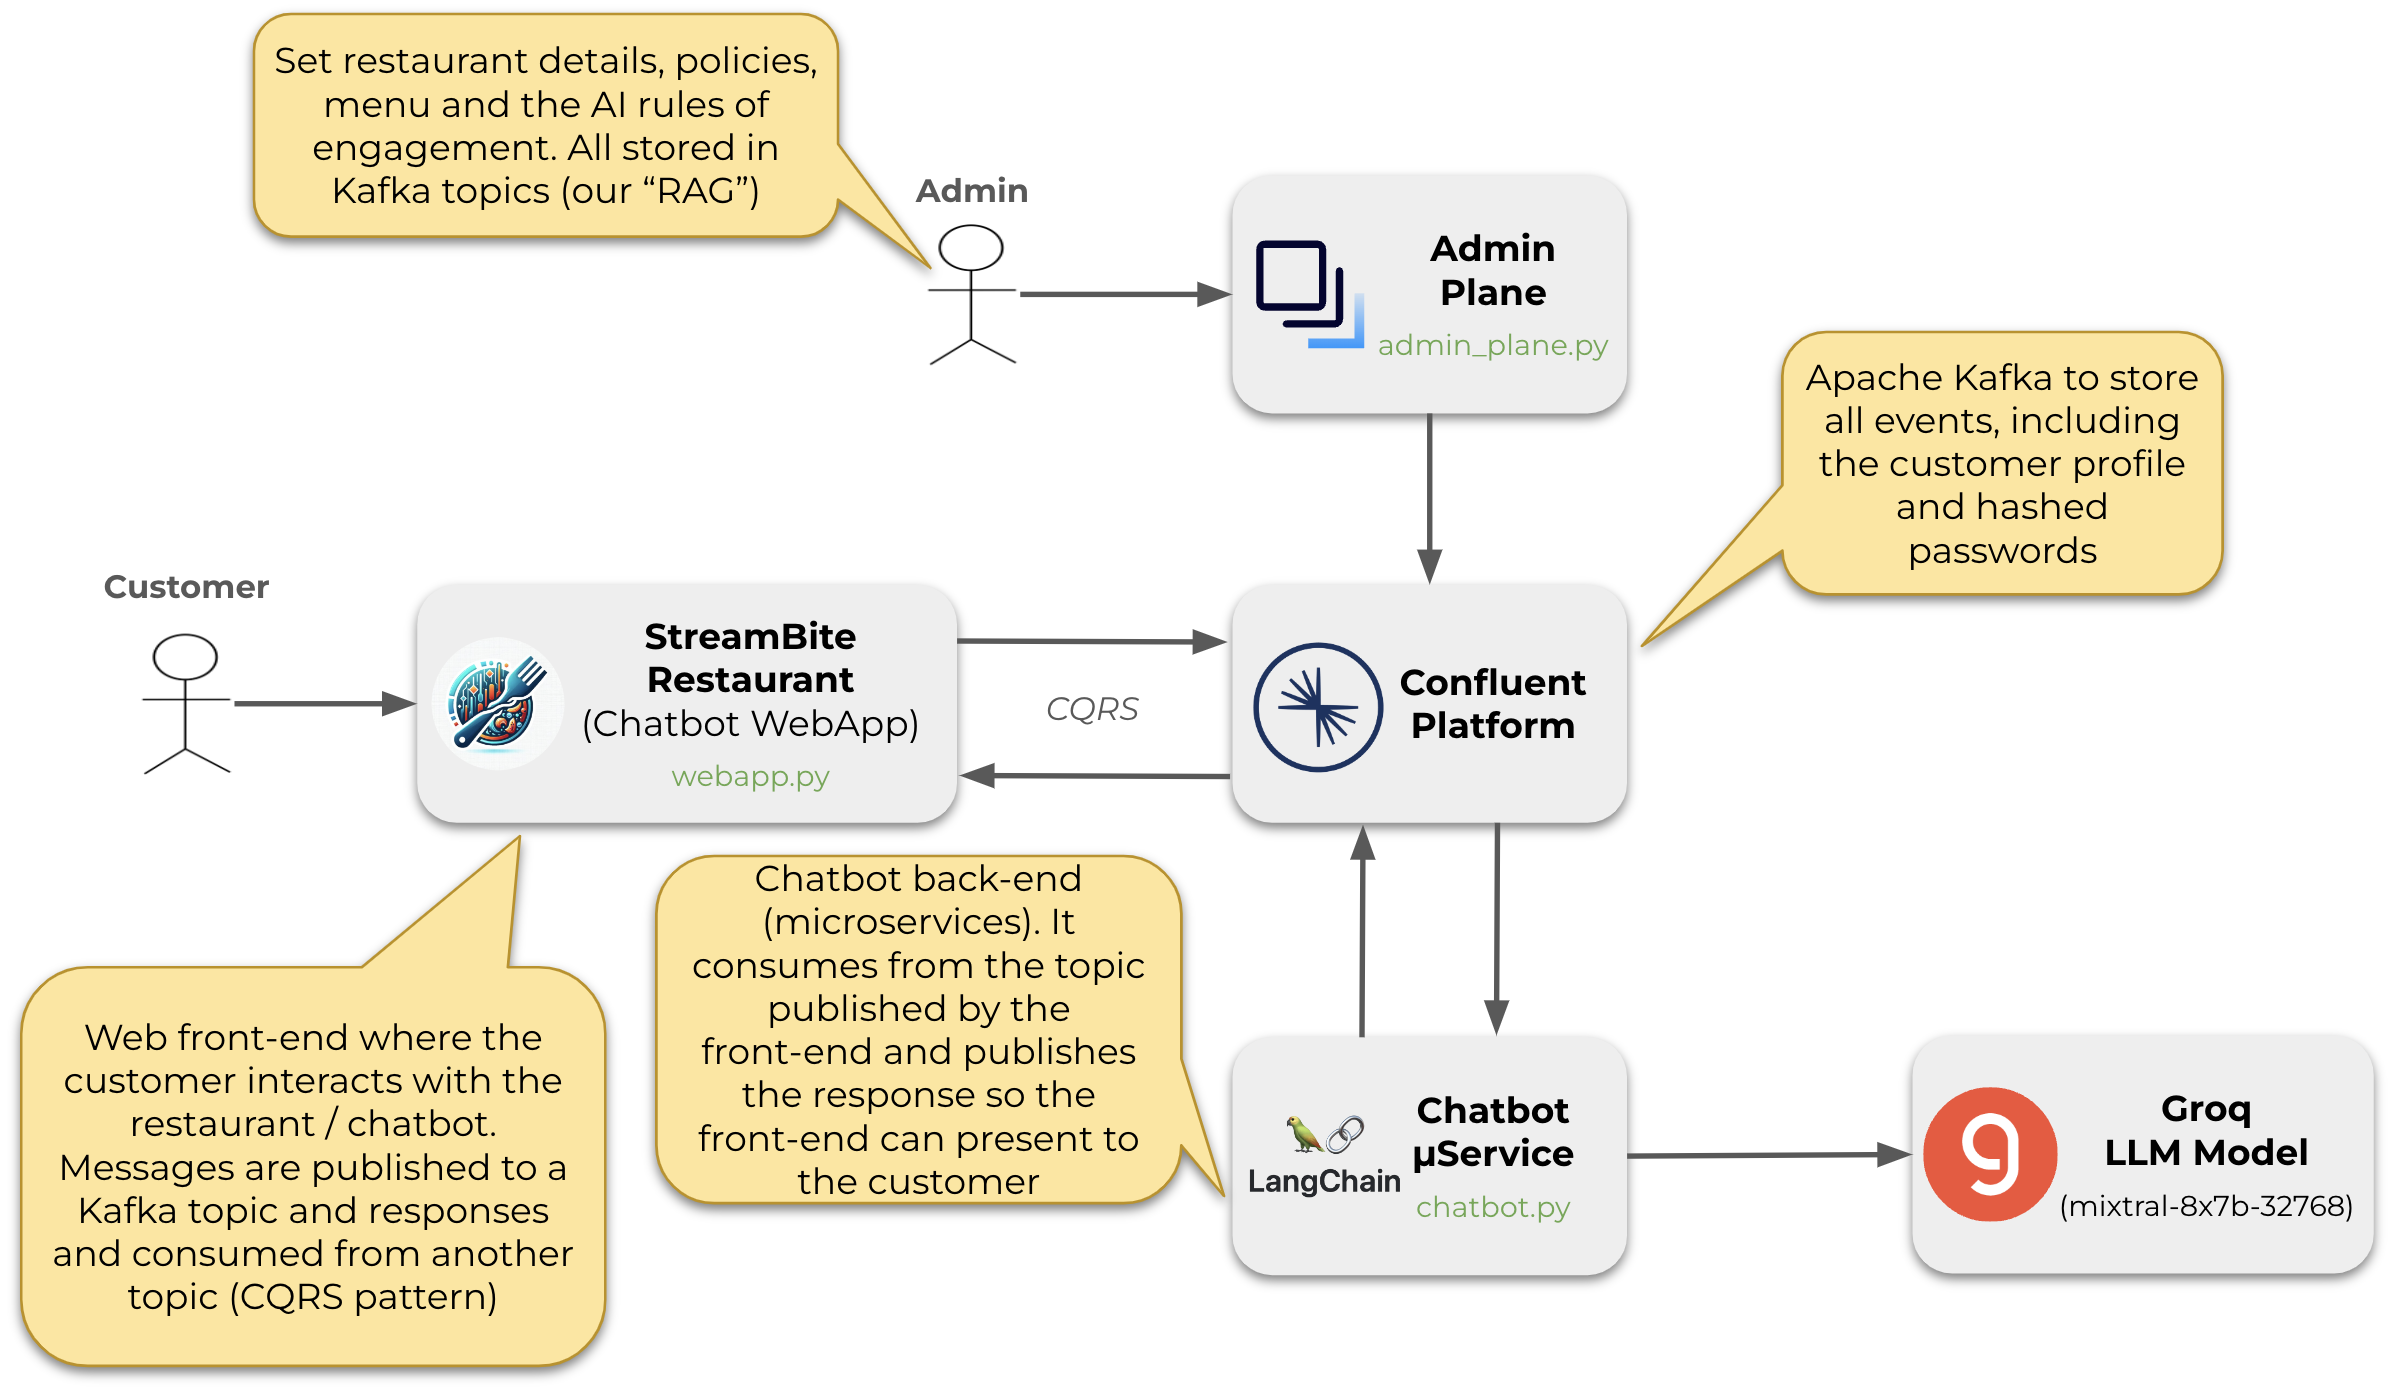
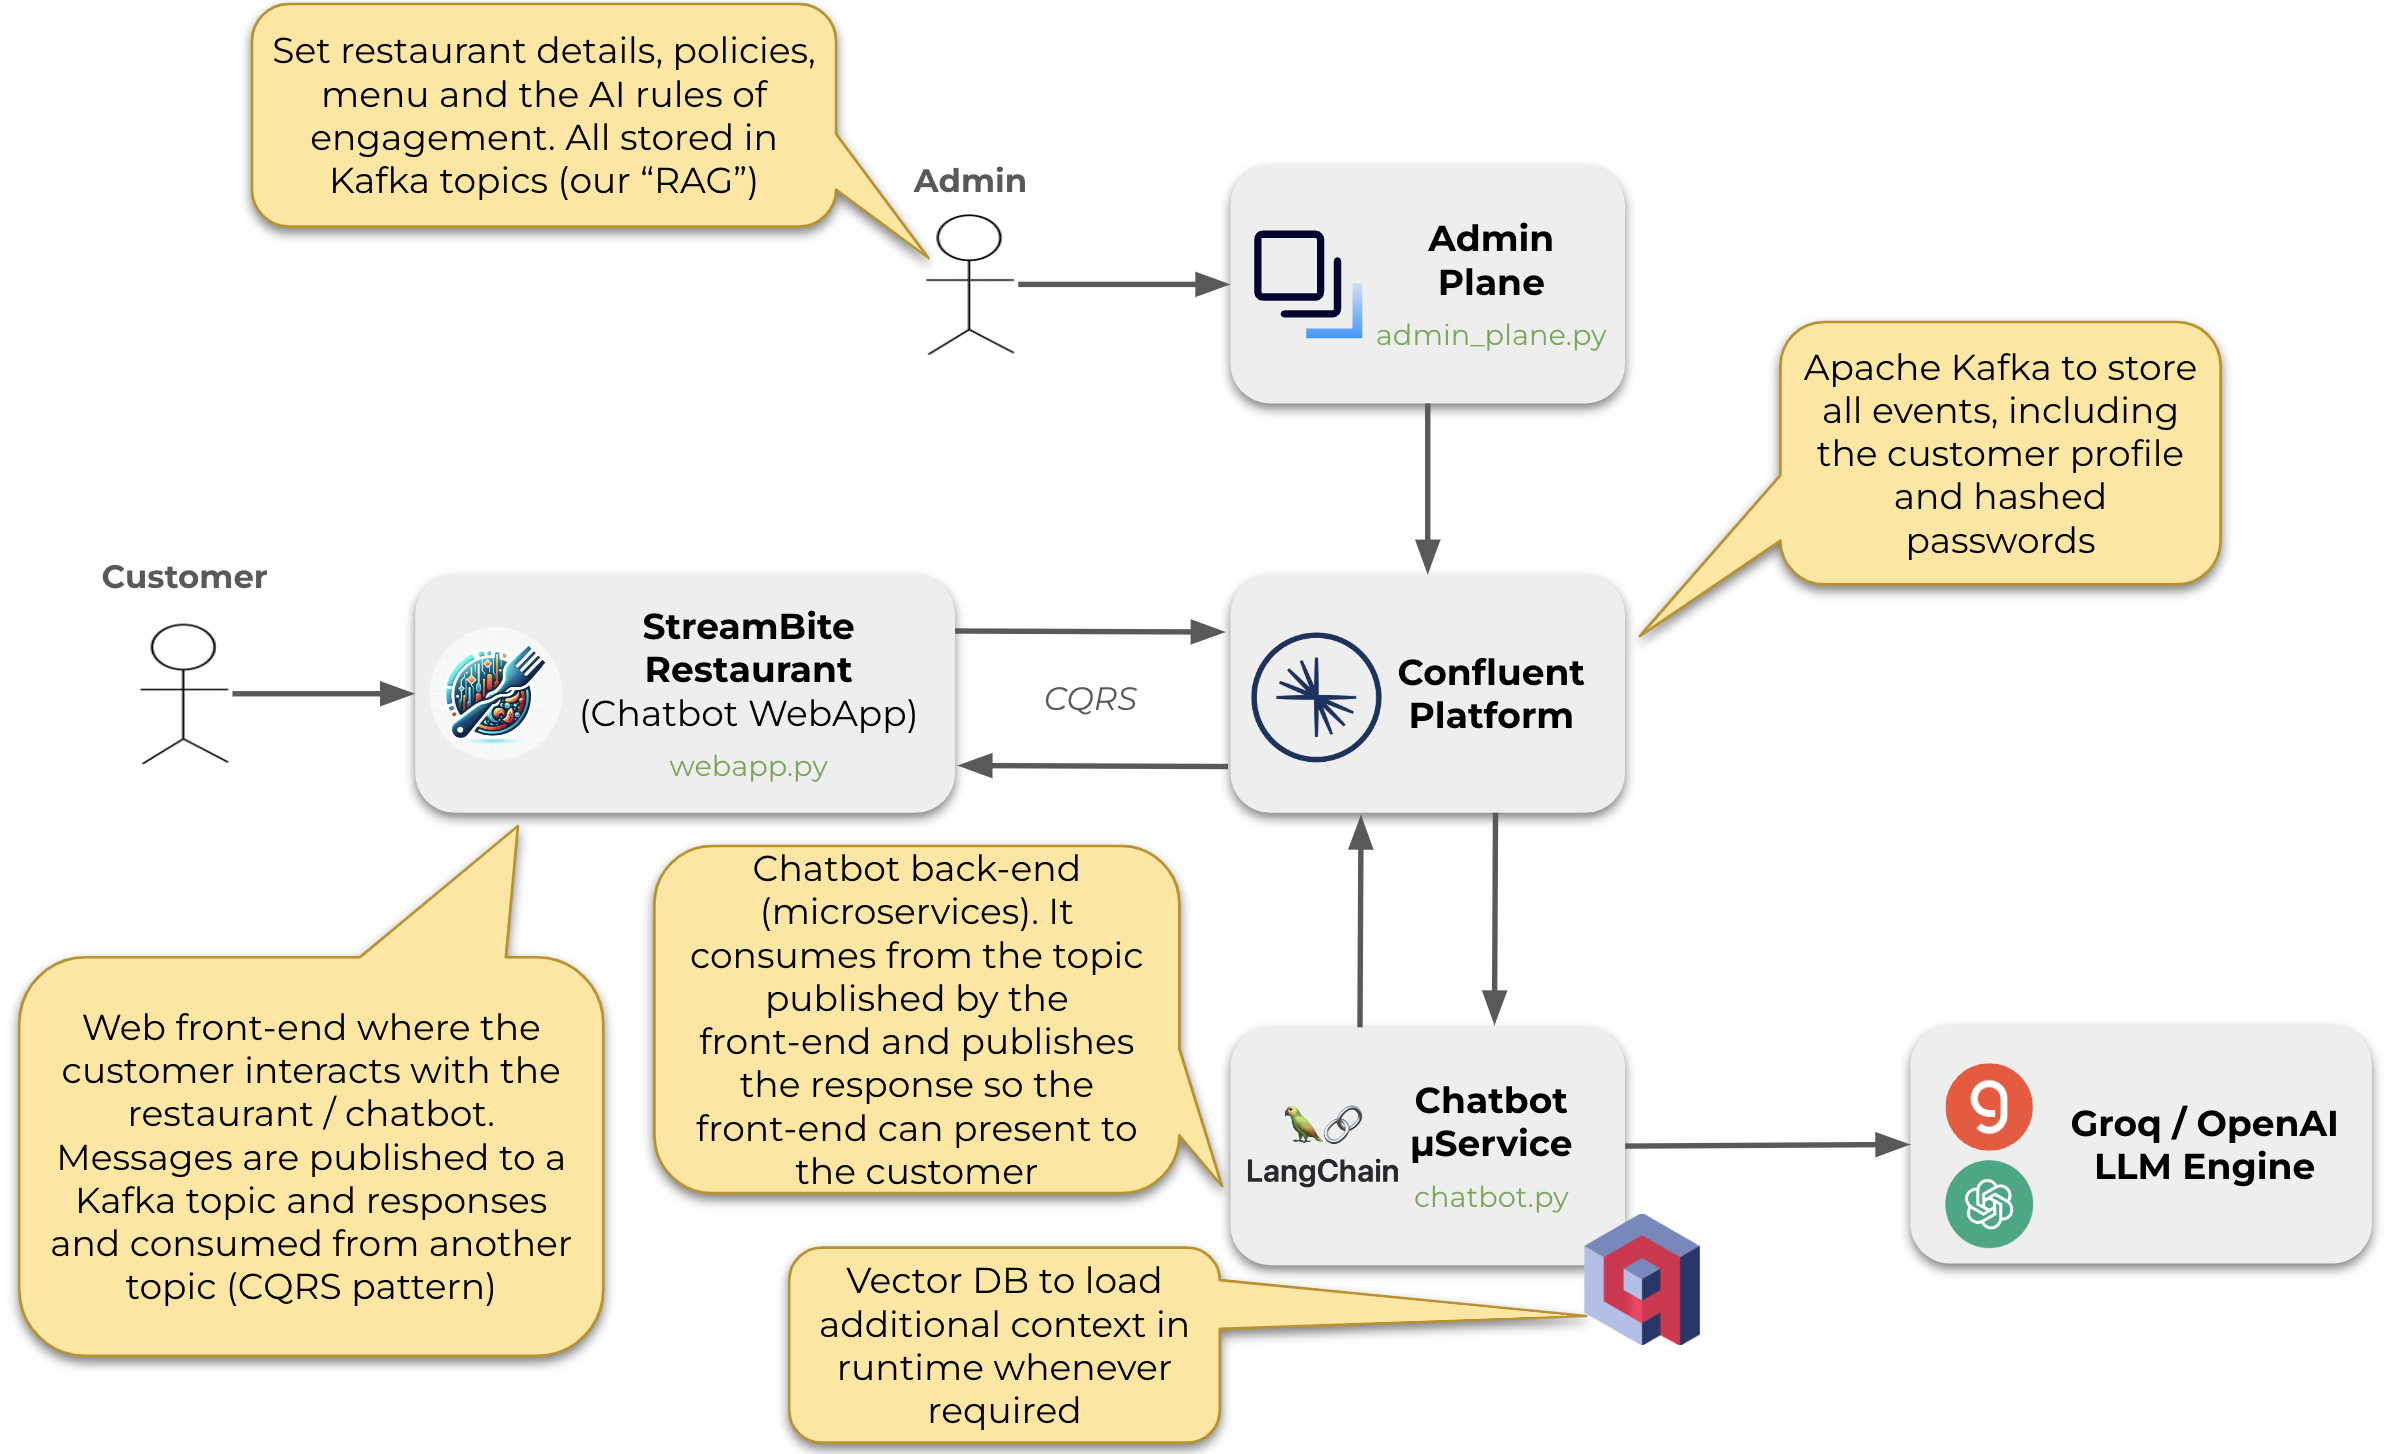
Added Qdrant Vector DB

Changed region(s): [[0.0, 0.2169, 1.0, 1.0], [0.0931, 0.0, 0.6829, 0.3098], [0.5898, 0.3718, 0.6208, 0.4027]]

diff --git a/src/chatbot.py b/src/chatbot.py
@@ -1,6 +1,7 @@
 import os
 import sys
 import json
+import hashlib
 import logging
 
 from dotenv import load_dotenv, find_dotenv
@@ -8,7 +9,11 @@ from threading import Thread
 from langchain_groq import ChatGroq
 from langchain_openai import ChatOpenAI
 from langchain.callbacks import get_openai_callback
-from langchain.schema import SystemMessage, HumanMessage, AIMessage
+from langchain.schema import SystemMessage, HumanMessage
+
+from qdrant_client import QdrantClient
+from qdrant_client.http import models
+from sentence_transformers import SentenceTransformer
 
 from utils import (
     TOPIC_RAG,
@@ -25,16 +30,33 @@ from utils import (
 )
 
 
+####################
+# Global Variables #
+####################
+chatSessions = dict()
+chatMessages = dict()
+chatVectorDB = dict()
+
+
 ###########
 # Classes #
 ###########
 class LoadRAG:
     """Load in memory RAG / Customer Profiles"""
 
-    def __init__(self, topics) -> None:
+    def __init__(
+        self,
+        topics,
+        vdb_client,
+        vdb_model,
+        vdb_collection,
+    ) -> None:
         self.rag = dict()
         self.customer_profile = dict()
         self.topics = topics
+        self.vdb_client = vdb_client
+        self.vdb_model = vdb_model
+        self.vdb_collection = vdb_collection
 
     def consumer(self, kafka) -> None:
         while True:
@@ -69,6 +91,28 @@ class LoadRAG:
                         else:
                             self.rag[prefix][suffix][key] = value
 
+                    # Load sentences into the Vector DB
+                    elif rag_name in ["vector_db"]:
+                        sentence = f"{key}: {value['description']}"
+                        embeddings = self.vdb_model.encode([sentence])
+
+                        # Upsert collection
+                        id = int(hashlib.md5(key.encode("utf-8")).hexdigest(), 16)
+                        logging.info(f"Upserting Vector DB collection {self.vdb_collection}: {id} | {sentence}")
+                        self.vdb_client.upsert(
+                            collection_name=self.vdb_collection,
+                            points=[
+                                models.PointStruct(
+                                    id=id,
+                                    vector=embeddings[0],
+                                    payload={
+                                        "title": key,
+                                        "description": value['description'],
+                                    },
+                                ),
+                            ],
+                        )
+
                     # Policies, Restaurant and AI Rules
                     else:
                         if rag_name not in self.rag.keys():
@@ -85,25 +129,55 @@ class LoadRAG:
                         logging.info(f"Loaded RAG {rag_name}: {json.dumps(value)}")
 
 
-####################
-# Global Variables #
-####################
-chatSessions = dict()
-chatMessages = dict()
-
-kafka = None
-customer_action_serialiser = None
-
-rag = LoadRAG(topics=[TOPIC_CUSTOMER_PROFILES, TOPIC_RAG])
-
-
 ########
 # Main #
 ########
-def main():
+if __name__ == "__main__":
+    FILE_APP = os.path.splitext(os.path.split(__file__)[-1])[0]
+    logging.basicConfig(
+        format=f"[{FILE_APP}] %(asctime)s.%(msecs)03d [%(levelname)s]: %(message)s",
+        level=logging.INFO,
+        datefmt="%Y-%m-%d %H:%M:%S",
+    )
 
     # Load env variables
     load_dotenv(find_dotenv())
+
+    VECTOR_DB_MIN_SCORE = float(os.environ.get("VECTOR_DB_MIN_SCORE", 0.6))
+    VECTOR_DB_SEARCH_LIMIT = int(os.environ.get("VECTOR_DB_SEARCH_LIMIT", 2))
+
+    # Vector DB Collection
+    VDB_COLLECTION = "chatbot_restaurant"
+
+    # Load Sentence Transformer
+    SENTENCE_TRANSFORMER = "all-MiniLM-L6-v2"
+    logging.info(f"Loading sentence transformer, model: {SENTENCE_TRANSFORMER}")
+    VDB_MODEL = SentenceTransformer(SENTENCE_TRANSFORMER)
+
+    # Qdrant (Vector-DB), load it in memory
+    logging.info("Loading VectorDB in memory (Qdrant)")
+    VDB_CLIENT = QdrantClient(":memory:")
+
+    # Create collection
+    logging.info(f"Creating VectorDB collection: {VDB_COLLECTION}")
+    VDB_CLIENT.create_collection(
+        collection_name=VDB_COLLECTION,
+        vectors_config=models.VectorParams(
+            size=384,
+            distance=models.Distance.COSINE,
+        ),
+    )
+
+    # Class instance to load RAG data
+    rag = LoadRAG(
+        topics=[
+            TOPIC_CUSTOMER_PROFILES,
+            TOPIC_RAG,
+        ],
+        vdb_client=VDB_CLIENT,
+        vdb_model=VDB_MODEL,
+        vdb_collection=VDB_COLLECTION,
+    )
 
     kafka = KafkaClient(
         os.environ.get("KAFKA_CONFIG"),
@@ -135,9 +209,18 @@ def main():
             mid = value["mid"]
             username = value["username"]
 
+            # Vector DB cache per session
+            if session_id not in chatVectorDB.keys():
+                chatVectorDB[session_id] = list()
+
+            # Chat cache per session
+            if session_id not in chatMessages.keys():
+                chatMessages[session_id] = list()
+
             if mid is None:  # Logout message
                 chatSessions.pop(session_id, None)
                 chatMessages.pop(session_id, None)
+                chatVectorDB.pop(session_id, None)
                 logging.info(f"{username} has logged out!")
 
             else:
@@ -182,15 +265,39 @@ def main():
                             SystemMessage(context),
                             HumanMessage(query),
                         ]
+
                         logging.info(f"{username} has logged in!")
                         logging.info(f"Message ID: {mid}")
                         logging.info(f"Context: {context}")
                         logging.info(f"Query: {query}")
 
                     else:  # new customer message
-                        customer_message = value["message"] or ""
-                        logging.info(customer_message)
-                        chatMessages[session_id].append(HumanMessage(customer_message))
+                        query = value["message"] or ""
+
+                        # Query Vector DB based on the customer message content
+                        vdb_context = list()
+                        if query:
+                            embeddings = VDB_MODEL.encode([query])
+                            result_search = VDB_CLIENT.search(
+                                collection_name=VDB_COLLECTION,
+                                query_vector=embeddings[0],
+                                limit=VECTOR_DB_SEARCH_LIMIT,
+                            )
+                            for search in result_search:
+                                if search.score >= VECTOR_DB_MIN_SCORE:
+                                    if search.payload["title"] not in chatVectorDB[session_id]:
+                                        chatVectorDB[session_id].append(search.payload["title"])
+                                        vdb_context.append(f"{search.payload['title']}: {search.payload['description']}")
+
+                        if len(vdb_context) > 0:
+                            context = "Additional context:"
+                            for item in vdb_context:
+                                context += f"\n- {item}"
+                            logging.info(context)
+                            chatMessages[session_id].append(SystemMessage(context))
+
+                        logging.info(f"Customer query: {query}")
+                        chatMessages[session_id].append(HumanMessage(query))
 
                     # Submit promt to LLM model and count tokens
                     with get_openai_callback() as cb:
@@ -238,15 +345,3 @@ def main():
                     finally:
                         if kafka.producer:
                             kafka.producer.flush()
-
-
-if __name__ == "__main__":
-    FILE_APP = os.path.splitext(os.path.split(__file__)[-1])[0]
-    logging.basicConfig(
-        format=f"[{FILE_APP}] %(asctime)s.%(msecs)03d [%(levelname)s]: %(message)s",
-        level=logging.INFO,
-        datefmt="%Y-%m-%d %H:%M:%S",
-    )
-
-    # Start main thread
-    main()

diff --git a/src/admin_plane.py b/src/admin_plane.py
@@ -57,7 +57,7 @@ def main():
         # Load RAG data into Kafka topics
         for rag, param in config_data.items():
 
-            if rag in ["ai_rules", "policies", "restaurant"]:
+            if rag in ["ai_rules", "policies", "restaurant", "vector_db"]:
                 # Avro serialiser
                 with open(param["schema"], "r") as f:
                     schema_str = f.read()

diff --git a/README.md b/README.md
@@ -52,12 +52,27 @@ OPENAI_API_KEY="<Your_OpenAI_API_Key_Here>"  # Required if LLM_ENGINE=openai (Ge
 GROQ_API_KEY="<Your_GroqCloud_API_Key_Here>" # Required if LLM_ENGINE=groq (Get the API Key here: https://console.groq.com)
 BASE_MODEL="gpt-3.5-turbo-0125"              # Options: gpt-3.5-turbo-0125 (if LLM_ENGINE=openai), mixtral-8x7b-32768 (if LLM_ENGINE=groq)
 MODEL_TEMPERATURE=0.3
+VECTOR_DB_MIN_SCORE=0.2
+VECTOR_DB_SEARCH_LIMIT=2
 EOF
 ```
 
 You are now ready to start the demo!
 
 ### Running the demo
+You can make use of the shell script `./demo.sh` to have the demo started, stopped and restarted:
+```
+usage: ./demo.sh [-h, --help] [-x, --start] [-p, --stop] [-r, --restart]
+
+Demo: Chatbot for a Restaurant (Confluent - All rights reserved)
+
+Options:
+ -h, --help     Show this help message and exit
+ -x, --start    Start demo
+ -p, --stop     Stop demo
+ -r, --restart  Restart microservices
+```
+
 To automatically start the demo, run `./demo.sh -x`, once the docker images are downloaded, it should take less than 2 minutes to have everything up and running.
 ```
 2024-03-22 17:17:02.000 [INFO]: Setting environment variables
